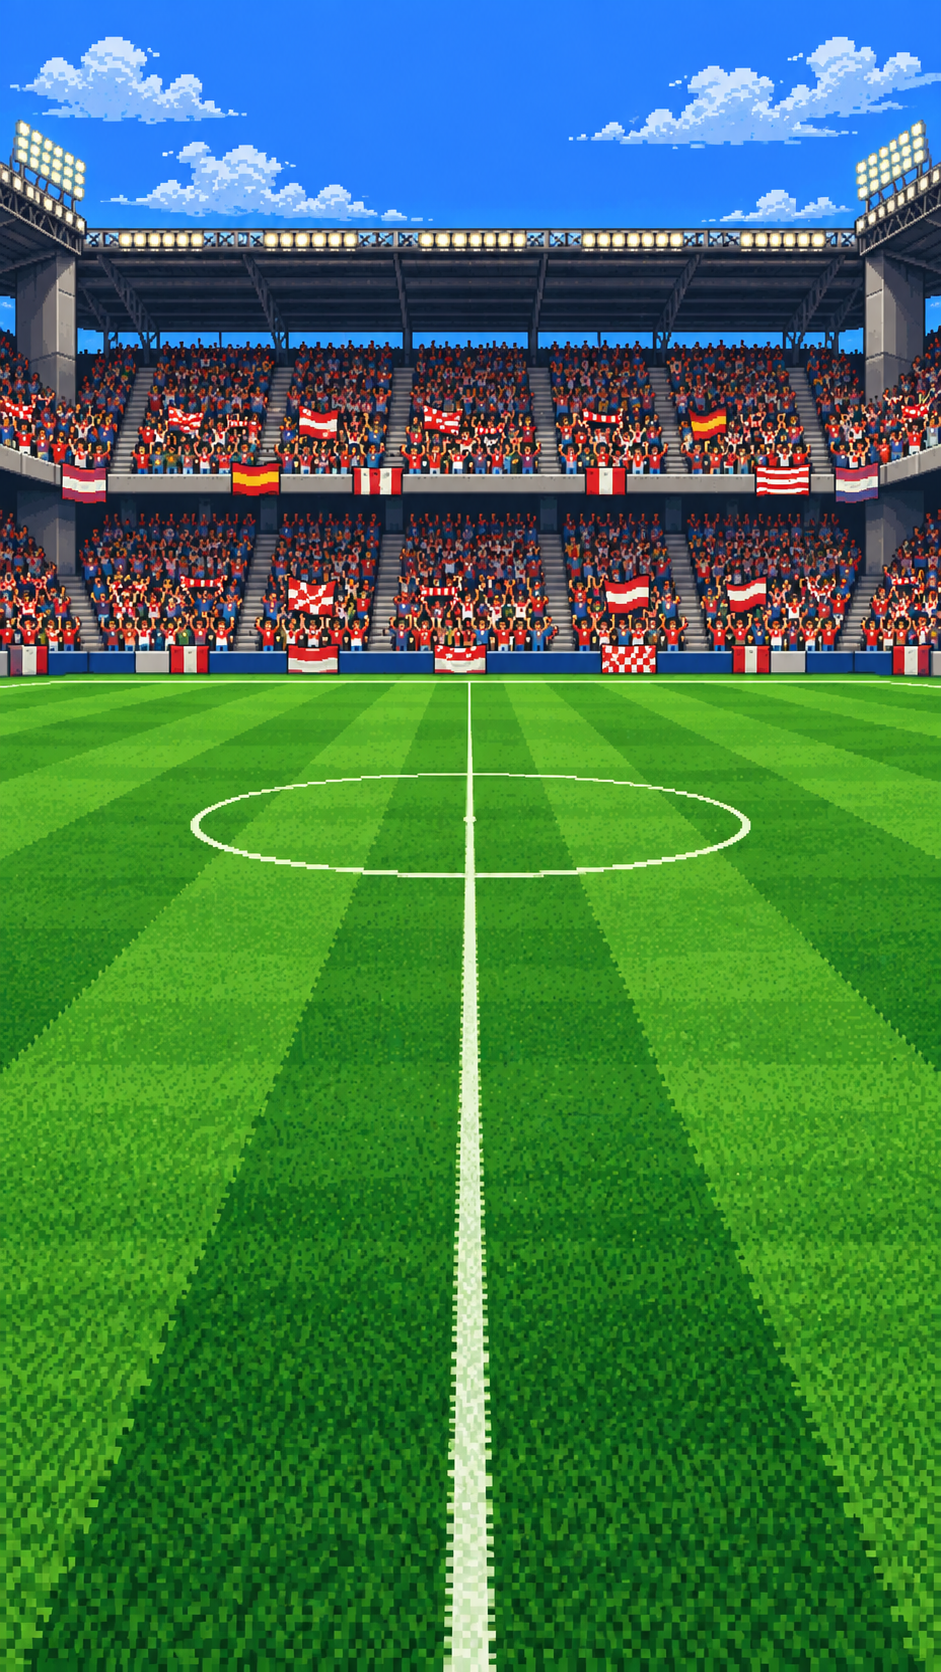
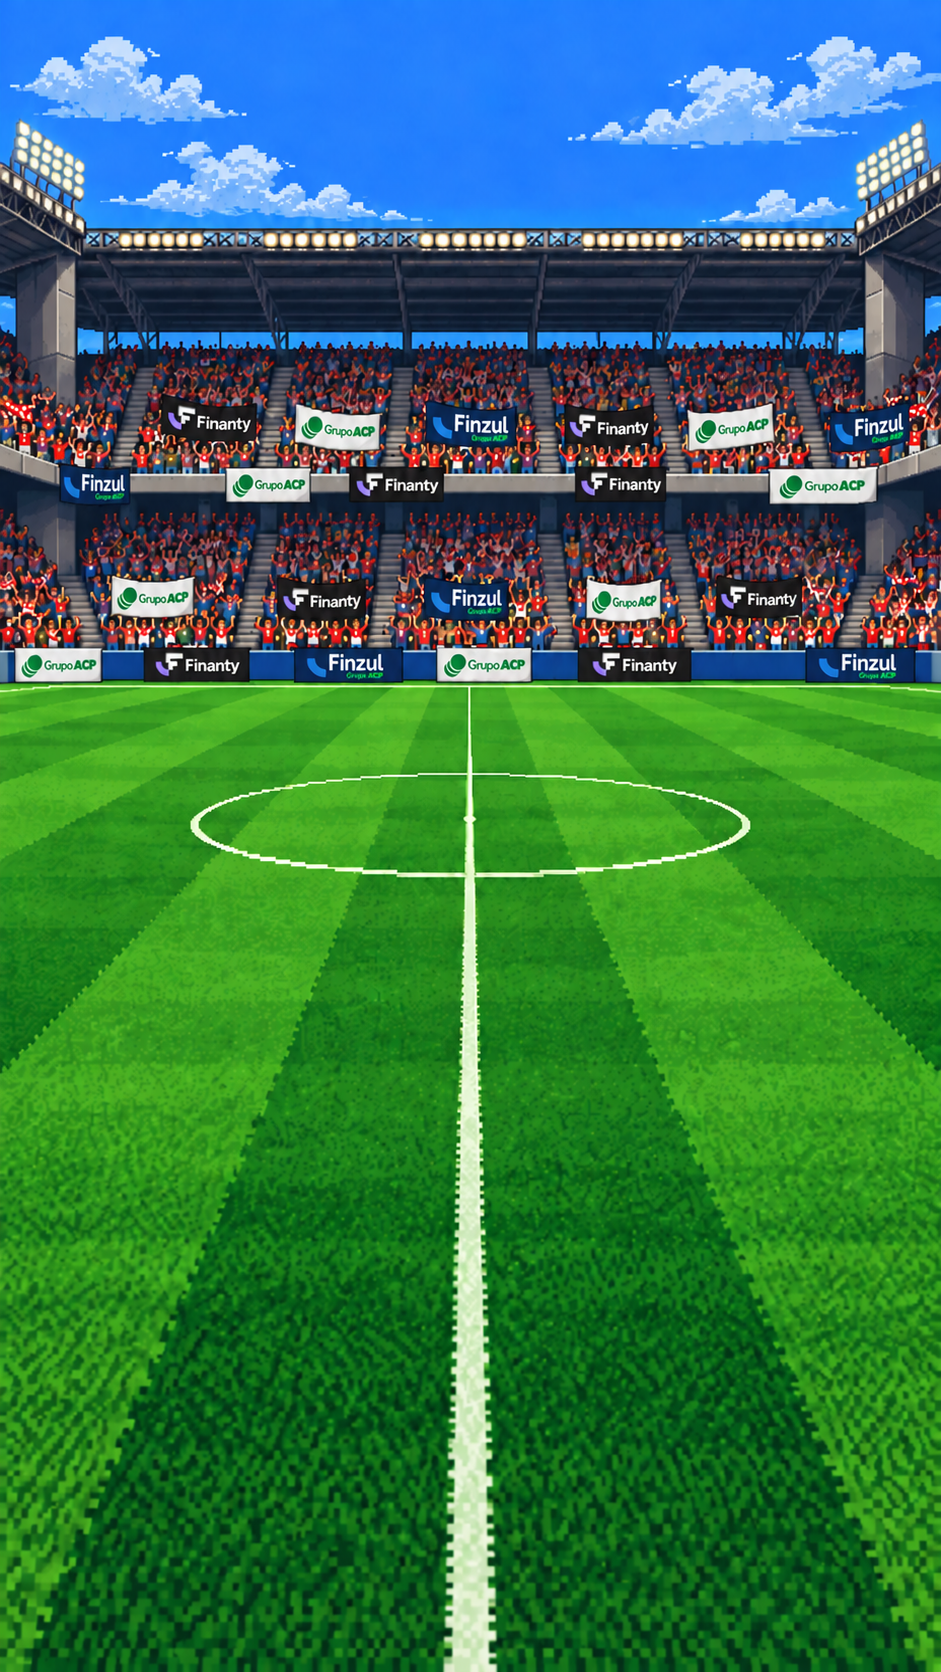
mejoras fondo y nuevos jugadores

diff --git a/src/layouts/Base.tsx b/src/layouts/Base.tsx
@@ -20,9 +20,9 @@ import styles from './Base.module.css';
  * `<head>` (charset, viewport, favicon) lives in `index.html`; each page sets
  * its own title with `useDocumentTitle()`.
  *
- * The backdrop is rendered small and upscaled by CSS with nearest-neighbour,
- * like every other image here — it is what makes the crowd read as a tiled
- * background rather than a photo sitting behind pixel art.
+ * The backdrop is already drawn as pixel art, so unlike the crests it is
+ * served at its native size and without `pixelated`: shrinking it and
+ * upscaling it again doubled its pixels and blurred the crowd.
  *
  * It also keeps the session current (T-18, D-009) for the coin counter and
  * the account corner (BR-010): on a page change or when the tab becomes
@@ -97,8 +97,8 @@ export default function Base() {
 		}
 	}, [navigate, pathname]);
 
-	const landscape = bgDesktop['480'];
-	const portrait = bgMobile['240'];
+	const landscape = bgDesktop['1672'];
+	const portrait = bgMobile['941'];
 
 	return (
 		<>
@@ -107,7 +107,6 @@ export default function Base() {
 			<picture className={styles.backdrop} aria-hidden="true">
 				<source media="(min-width: 48rem)" srcSet={landscape.src} />
 				<img
-					className="pixelated"
 					src={portrait.src}
 					alt=""
 					width={portrait.width}

diff --git a/vite.config.ts b/vite.config.ts
@@ -92,9 +92,9 @@ export default defineConfig({
 			crest: ['96', '96@2', '48', '48@2', '32', '32@2', '32x32', '32x32@2'],
 			// Navbar 32×32 · Hero 96×96 — both with a 2x density
 			logo: ['32x32', '32x32@2', '96x96', '96x96@2'],
-			// Layout backdrop: landscape from 48rem, portrait on phones
-			'backdrop-landscape': ['480'],
-			'backdrop-portrait': ['240'],
+			// Layout backdrop: already pixel art, so at its native size (no downscale)
+			'backdrop-landscape': ['1672'],
+			'backdrop-portrait': ['941'],
 			// SquadBoard pitch 240, 2x density
 			pitch: ['240', '240@2'],
 			// PlayerStatsDialog portrait, drawn at exactly 2× by CSS

diff --git a/README.md b/README.md
@@ -752,7 +752,7 @@ docker compose -f compose.prod.yaml exec -T db \
 
 En `/posiciones`, la tabla del **fútbol masculino** (competición 13) se muestra en dos grupos. El **Grupo A** tiene los equipos 50 (AQUÍ SE COBRA FC), 54 (Grupzul 2.0) y 53 (SPORT LA PLATA FC); el **Grupo B**, el resto, incluido cualquiera que se agregue después. Cada grupo es su propia tabla, con todas las columnas y su propio scroll horizontal, y numera desde 1 en el orden de siempre (puntos, diferencia, goles a favor…). El fútbol femenino y el vóley siguen con una sola tabla.
 
-Es **solo del front**: la configuración está en `src/lib/league-groups.ts`, por id (los ids se conservan en producción con el volcado de datos reales). La API y la base no cambian. Para cambiar los grupos hay que editar ese archivo y desplegar; si el admin tiene que poder hacerlo desde el panel, hará falta una columna en el esquema (`docs/pendientes.md`).
+Es **solo del front**: la configuración está en `src/lib/league-groups.ts`, por id. Los ids de producción no son los de desarrollo (allí la competición es la 1 y el Grupo A son los equipos 12, 15 y 16), así que el archivo lista los dos juegos. La API y la base no cambian. Para cambiar los grupos hay que editar ese archivo y desplegar; si el admin tiene que poder hacerlo desde el panel, hará falta una columna en el esquema (`docs/pendientes.md`).
 
 ## ⚠ Limitaciones conocidas
 
